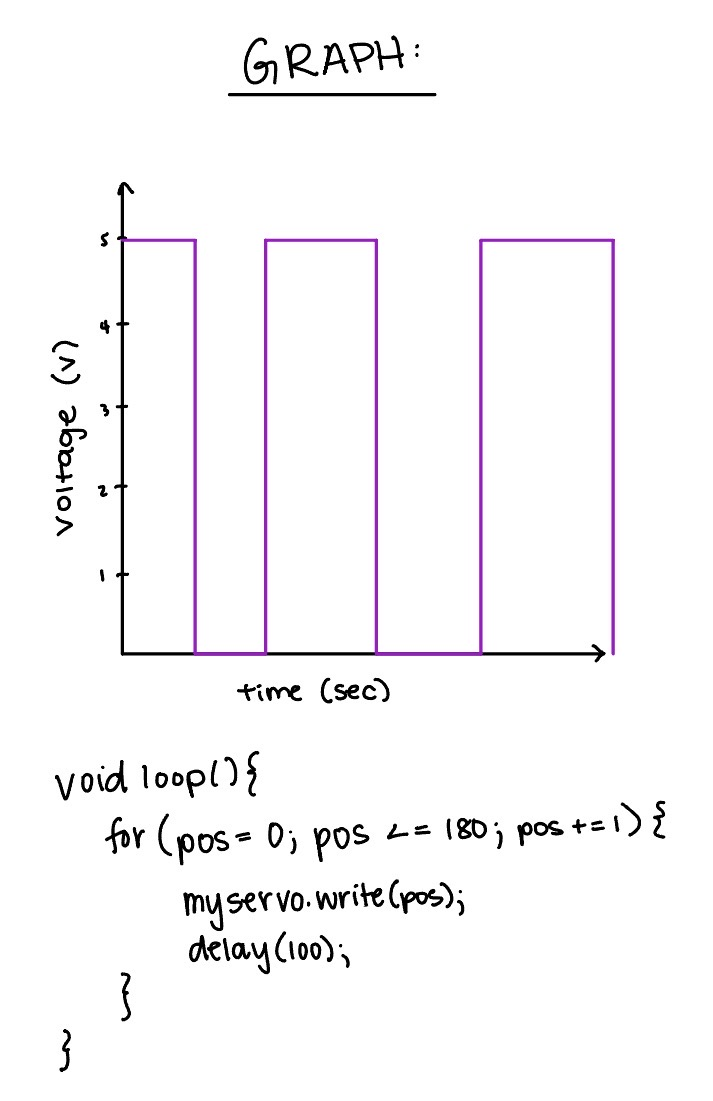
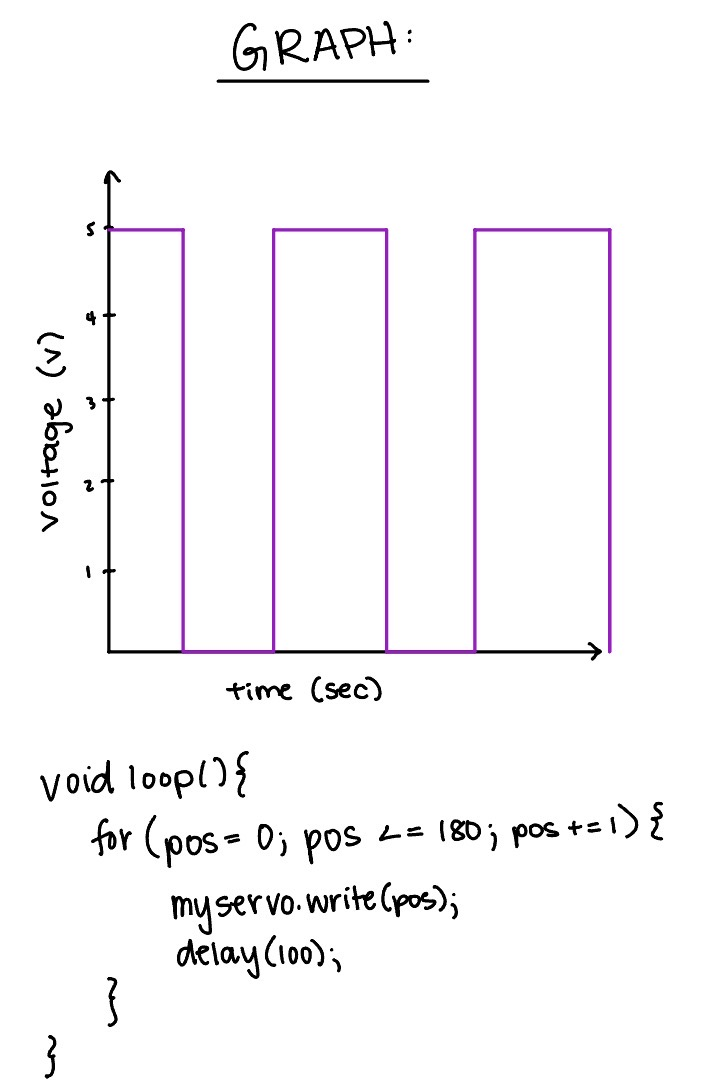
commit 3: fixed everything. need to answer additional questions

diff --git a/docs/a4.html b/docs/a4.html
@@ -13,13 +13,17 @@
     <div class="header">
       <img src="operation4.gif" height="400"/><br/>
       <p>
-        To the right you will see a gif of my operating circuit.
-        Below, you will find the calculations for the resistors and the 
-        circiut schematic that made this operating circuit possible. You will
-        also find a graph of the voltage of a circuit with the loop stated in
-        the directions. Further explaination is down below. The final entry on
-        this page will be a code snippet of the code that I used to complete
-        this assignment. Below are some bonus questions from this assignment.<br/>
+        To the right you will see a gif of my operating circuit. The servo motor
+        moves to an 180 degrees location when the photoresistor reads greater
+        than half the possible light value AND when the thermistor reads greater
+        than half the possible temperature value. The motor stays in this potision
+        until either one or both of the conditions are no longer true. Below, you
+        will find the calculations for the resistors and the circiut schematic
+        that made this operating circuit possible. You will also find a graph of
+        the voltage of a circuit with the loop stated in the directions. Further
+        explaination is down below. The final entry on this page will be a code
+        snippet of the code that I used to complete this assignment. Below are some
+        bonus questions from this assignment.<br/>
         <br/>
         Additional Questions:<br/>
         1: Your input device is slightly broken, leading it to give us an erroneous
@@ -108,7 +112,7 @@
           }
 
           void loop() {
-            myservo.write(0);                     // start bthe motor position at 0
+            myservo.write(0);                     // start the motor position at 0
             light = analogRead(potpin);           // reads the value of the potentiometer (value between 0 and 1023)
             light = constrain(light, 208, 815);   // constrains the light value's max and min (between 208 and 815)
 
@@ -118,7 +122,7 @@
             if(light > 511 && temp >= 490){        // if the light sensor and temp sensor read more than the halfway
                                                    // point, (more light and more warm)
               myservo.write(180);                  // move the motor all the way to 180
-              delay(50);
+              delay(1000);                         // delay loop for one second
             }                                      // otherwise the motor will move back to 0
           }
         </pre>
